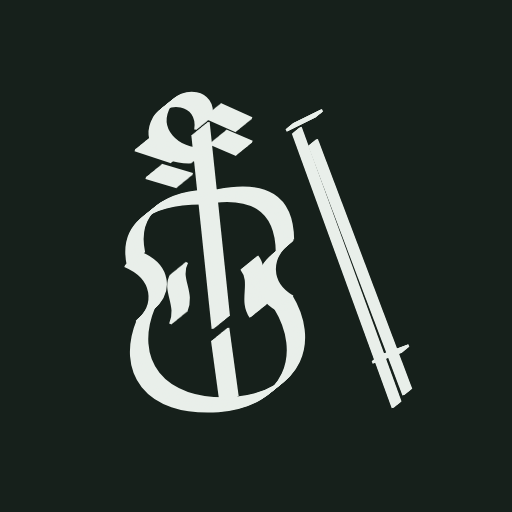
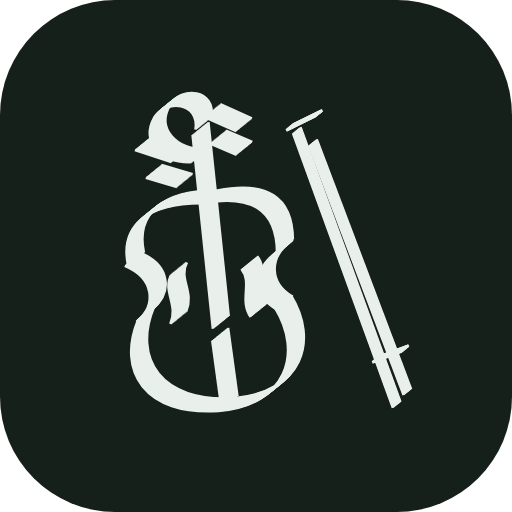
Test build from violin-toolkit dd783df + uncommitted changes

diff --git a/sw.js b/sw.js
@@ -2,11 +2,11 @@
    A new release is saved as soon as it is out, but the page shown stays the one the user is on until
    they choose Update (Settings version line, or the "new version" popup): the page writes that build
    stamp to META 'current'. So Later, or Settings > Automatic update check Off, keeps the old version. */
-const VERSION = 'violin-toolkit-test-20261114-231715';
+const VERSION = 'violin-toolkit-test-20261114-232320';
 const PREFIX = 'violin-toolkit-test-', META = PREFIX + 'meta';
 /* only this site's saved copies: production and test share trix69.github.io, so never touch the other's */
 const MINE = k => /^violin-toolkit-test-\d{8}-\d{6}$/.test(k);
-const CORE = ['./', 'index.html', 'manifest.webmanifest', 'icon-192.png', 'icon-512.png', 'apple-touch-icon.png'];
+const CORE = ['./', 'index.html', 'manifest.webmanifest', 'icon-192.png', 'icon-512.png', 'icon-maskable-512.png', 'apple-touch-icon.png'];
 self.addEventListener('install', e => {
   e.waitUntil(caches.open(VERSION).then(async c => {
     /* index.html is essential; the rest is best effort so one failure cannot block the install */

diff --git a/index.html b/index.html
@@ -2546,7 +2546,7 @@ a.howto-btn { text-decoration: none; box-sizing: border-box; }
       </div>
       </div>
     </div>
-    <button type="button" class="ver" id="verBtn" data-version="1.48" data-build="20261114-231715" data-cache="violin-toolkit-test-"><span>Version 1.48-test</span> · <span id="verMsg">Check for updates</span></button>
+    <button type="button" class="ver" id="verBtn" data-version="1.48" data-build="20261114-232320" data-cache="violin-toolkit-test-"><span>Version 1.48-test</span> · <span id="verMsg">Check for updates</span></button>
     <button type="button" class="sheet-done" id="sheetDone">Done</button>
   </div>
 </div>
